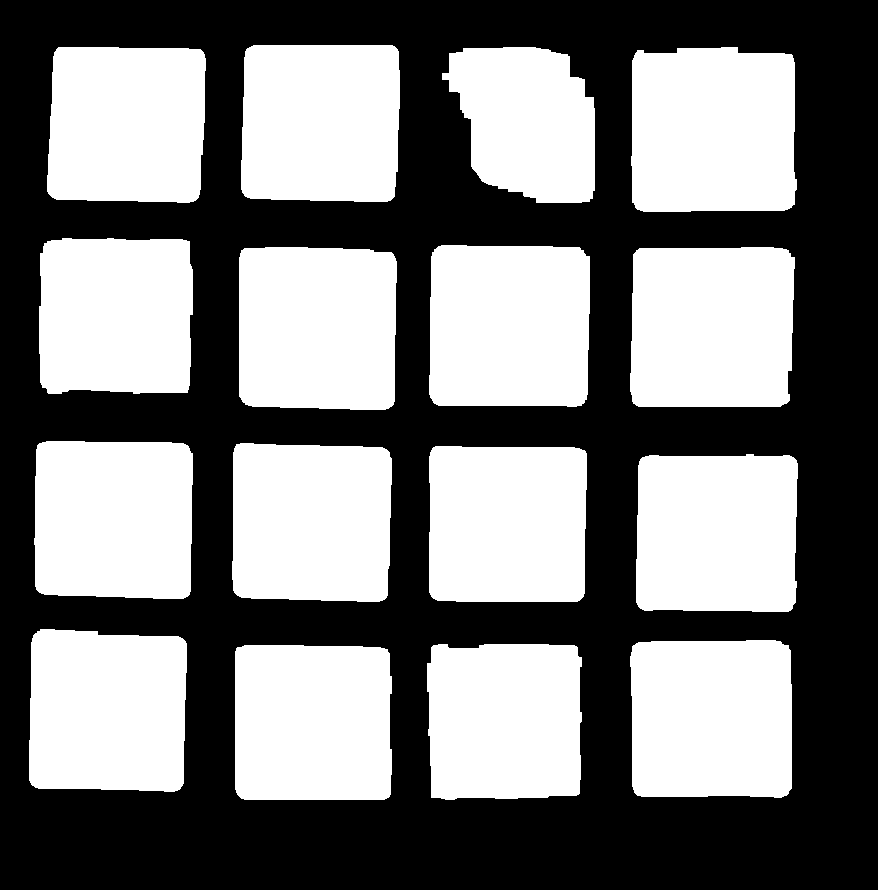
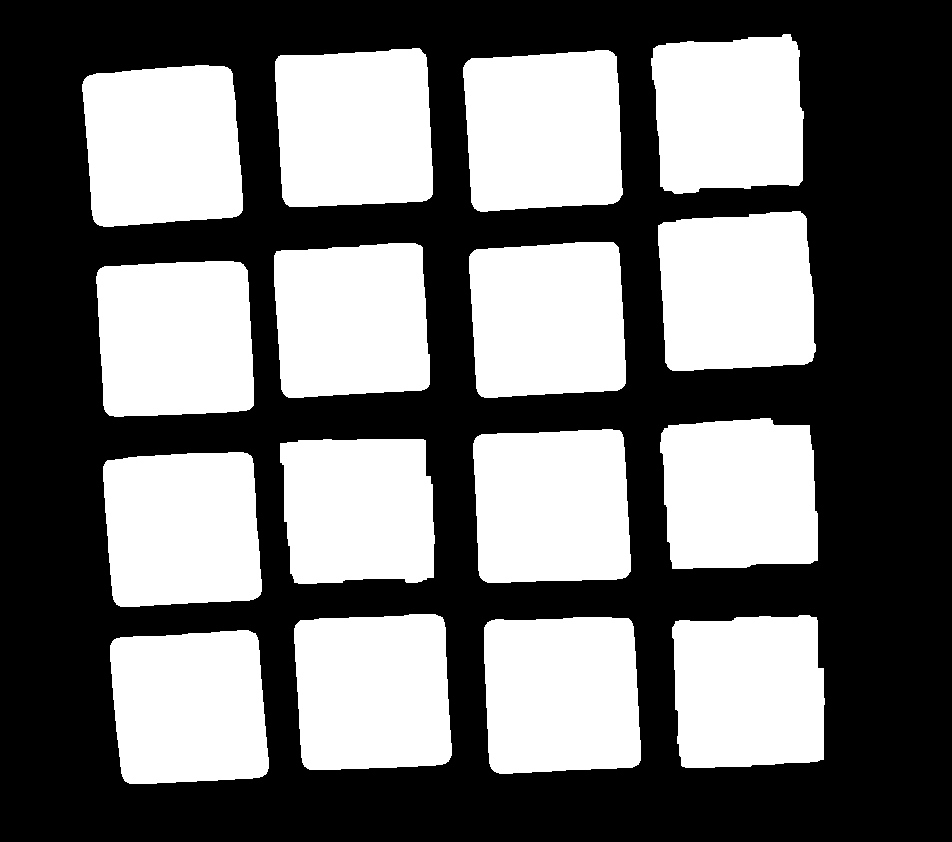
small squares

Changed region(s): [[0.0308, 0.0309, 0.9226, 0.9572]]

diff --git a/main.py b/main.py
@@ -88,7 +88,7 @@ def sobel(image):
 
 
 def detectColors():
-    image = cv2.imread('f2.png')
+    image = cv2.imread('f5.png')
     original = image.copy()
 
     image = remove_background(image)
@@ -151,16 +151,16 @@ def detectColors():
     for row in cube_rows:
         for c in row:
             x,y,w,h = cv2.boundingRect(c)
-            print("bounding rect")
-            cv2.rectangle(original, (x, y), (x + w, y + h), (36,255,12), 2)
-            curr_color = ""
-            curr_x = x + w//2
-            curr_y = y + h//2
-            if (curr_x >= 0 and curr_x <= masked_img.shape[1] and curr_y >= 0 and curr_y <= masked_img.shape[0]):
-                curr_color = checkInRange(colors, masked_img[curr_y][curr_x])
-            string = str(curr_color ) + " " + str("#{}".format(number + 1))
-            cv2.putText(original, string, (x,y - 5), cv2.FONT_HERSHEY_SIMPLEX, 0.7, (255,255,255), 2)
-            number += 1
+            if (w*h >= 2000):
+                cv2.rectangle(original, (x, y), (x + w, y + h), (36,255,12), 2)
+                curr_color = ""
+                curr_x = x + w//2
+                curr_y = y + h//2
+                if (curr_x >= 0 and curr_x <= masked_img.shape[1] and curr_y >= 0 and curr_y <= masked_img.shape[0]):
+                    curr_color = checkInRange(colors, masked_img[curr_y][curr_x])
+                string = str(curr_color ) + " " + str("#{}".format(number + 1))
+                cv2.putText(original, string, (x,y - 5), cv2.FONT_HERSHEY_SIMPLEX, 0.7, (255,255,255), 2)
+                number += 1
 
     cv2.imshow('mask', mask)
     cv2.imwrite('mask.png', mask)
